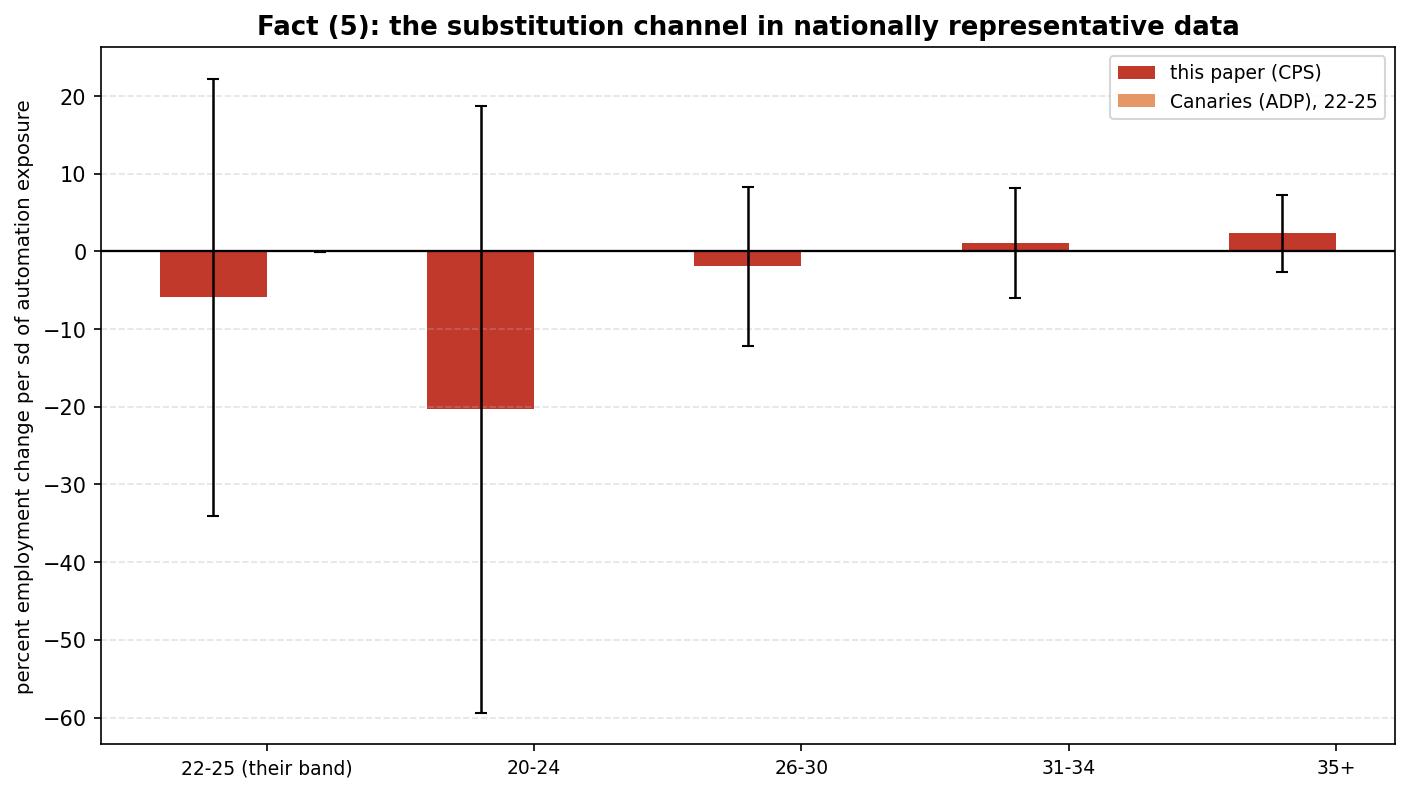
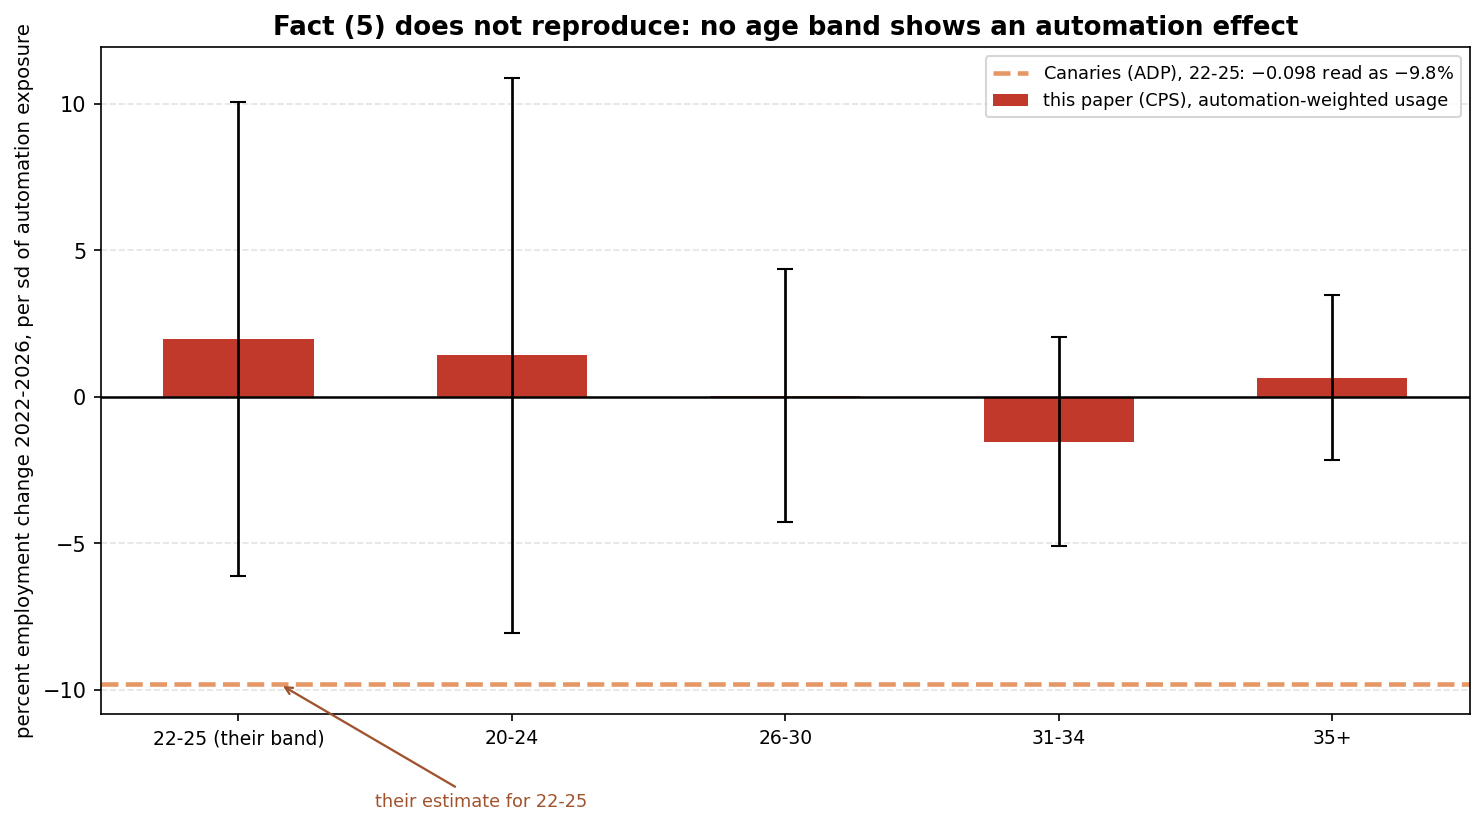
Fix the reproduction appendix, and a misleading chart in Section 6.5
APPENDIX

It was written before section3_age_gradient.py and section6_fact5.py existed and
still pointed at the pre-renumbering section 7.2. Table 3.4 had no listed source,
and neither did Tables 6.2 and 6.3. Corrected: 3.6 -> section3_age_gradient.py,
6.5 -> section6_fact5.py, and the composition decomposition is in 8.2 rather than
7.2.

THE CHART

section6_fact5.png was generated but never referenced, so it was checked before
being given a callout, and it was wrong. It plotted Canaries' coefficient at
-0.098 literally, next to estimates of order +2. Two problems with that. It is the
reading Section 6.5 argues AGAINST, on the grounds that -0.098 percent per
standard deviation would be economically negligible and could not carry their
mechanism claim. And at that scale their bar renders as a flat line on zero, so
the figure would have made their result look like a null and this paper's
disagreement look larger than it is, purely through a units artifact.

Replotted at -9.8, the proportion reading their own argument requires, which is
also the value the significance test in Section 6.5 runs against. The comparison
in the figure and the comparison in the text are now the same comparison.

Figure 8 callout added in 6.5.

diff --git a/section6_fact5.py b/section6_fact5.py
@@ -172,18 +172,31 @@ for col, lab in BANDS:
     print(f"  {lab:<22}{b[0]:>+14.3f} ({p[0]:.3f}){stars(p[0]):<4}")
 
 # ---- chart --------------------------------------------------------------------
-fig, ax = plt.subplots(figsize=(9.5, 5.4))
+# Their coefficient is plotted at -9.8, the proportion reading, which is the one
+# their own argument requires and the one Section 6.5 tests against. Plotting the
+# literal -0.098 alongside estimates of order 2 would render their result as a
+# flat line at zero and flatter this paper's conclusion by a scaling artifact.
+fig, ax = plt.subplots(figsize=(10, 5.6))
 labs = [l for _, l in BANDS]
-bs = [R[c][0][0] for c, _ in BANDS]; es = [1.96 * R[c][1][0] for c, _ in BANDS]
-ax.bar(np.arange(len(bs)) - 0.2, bs, 0.4, yerr=es, color="#c0392b",
-       error_kw=dict(lw=1.2, capsize=3), label="this paper (CPS)")
-ax.bar([0 + 0.2], [-0.098], 0.4, yerr=[1.96 * 0.018], color="#e59866",
-       error_kw=dict(lw=1.2, capsize=3), label="Canaries (ADP), 22-25")
-ax.axhline(0, color="black", lw=1.1)
-ax.set_xticks(range(len(labs))); ax.set_xticklabels(labs, fontsize=9)
-ax.set_ylabel("percent employment change per sd of automation exposure", fontsize=9.5)
-ax.set_title("Fact (5): the substitution channel in nationally representative data",
+bs, es = [], []
+for col, _ in BANDS:
+    d = longdiff(col)
+    b, se, p, n = wls(d, ["auto_use"])
+    bs.append(b[0]); es.append(1.96 * se[0])
+x = np.arange(len(bs))
+ax.bar(x, bs, 0.55, yerr=es, color="#c0392b", error_kw=dict(lw=1.3, capsize=4),
+       label="this paper (CPS), automation-weighted usage")
+ax.axhline(0, color="black", lw=1.2)
+ax.axhline(-9.8, color="#e59866", lw=2.2, ls="--",
+           label="Canaries (ADP), 22-25: $-$0.098 read as $-$9.8%")
+ax.annotate("their estimate for 22-25", xy=(0.15, -9.8), xytext=(0.5, -14),
+            fontsize=8.5, color="#a0522d",
+            arrowprops=dict(arrowstyle="->", color="#a0522d", lw=1.1))
+ax.set_xticks(x); ax.set_xticklabels(labs, fontsize=9)
+ax.set_ylabel("percent employment change 2022-2026, per sd of automation exposure",
+              fontsize=9.5)
+ax.set_title("Fact (5) does not reproduce: no age band shows an automation effect",
              fontsize=12.5, fontweight="bold")
-ax.legend(fontsize=9); ax.grid(True, axis="y", ls="--", alpha=.35)
+ax.legend(fontsize=8.5, loc="upper right"); ax.grid(True, axis="y", ls="--", alpha=.35)
 plt.tight_layout(); plt.savefig("section6_fact5.png", dpi=150, bbox_inches="tight")
 print("\nChart saved: section6_fact5.png")

diff --git a/PAPER.md b/PAPER.md
@@ -1207,6 +1207,12 @@ significant for older workers. That pattern either appears or it does not.
 | 31-34 | −1.530 | [−5.10, +2.04] | −0.017 |
 | 35+ | +0.657 | [−2.16, +3.47] | −0.014 / −0.008 / −0.006 |
 
+![Section 6.5: fact (5) tested](section6_fact5.png)
+
+*Figure 8. Automation-weighted usage entered alone, by age band, against the
+coefficient Brynjolfsson et al. report for 22 to 25 year olds. Their estimate is
+plotted at −9.8, the proportion reading their own argument requires.*
+
 No element of the pattern appears. The 22 to 25 coefficient is positive rather than
 negative, nothing is significant at any age, and the ordering across age groups is
 non-monotone. The mechanism evidence underpinning the headline finding does not
